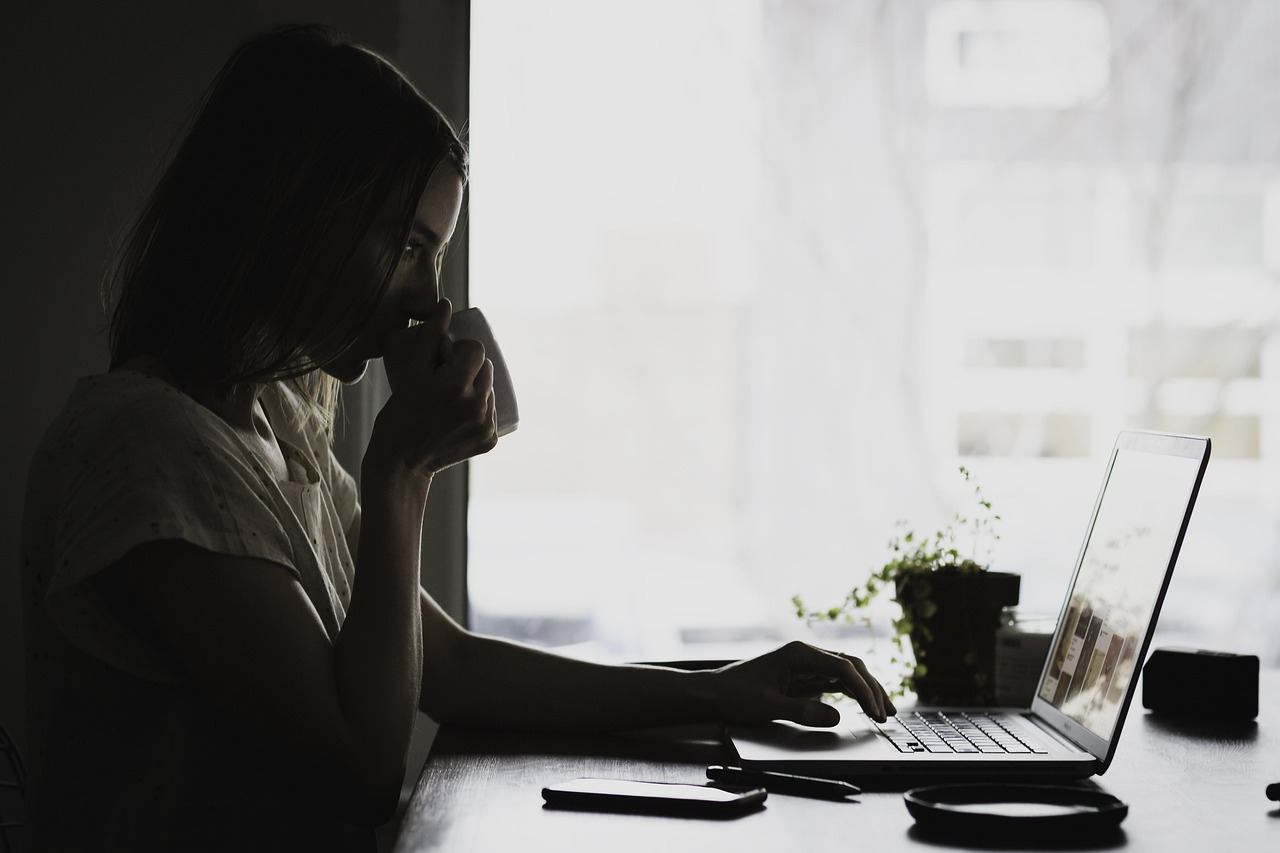
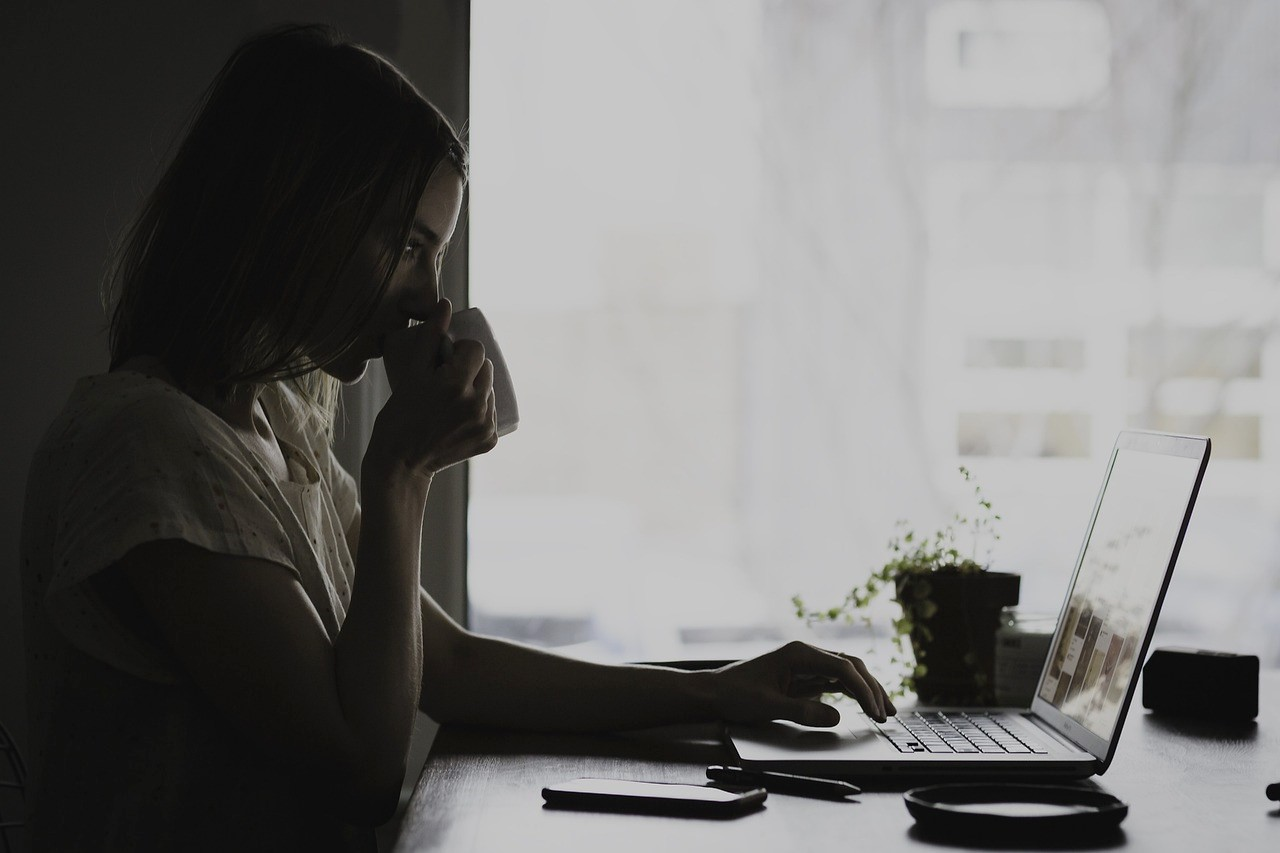
darken images

diff --git a/dist/chapters/literature-review/index.html b/dist/chapters/literature-review/index.html
@@ -139,7 +139,7 @@ header h1 {
 <p>To Review has been defined as: “To View, inspect, or examine a second time or again”.</p>
 <p>It is a crucial stage in the research process to establish what is already known about the topic so that unintentional replication can be avoided.</p>
 </div>
-<h2 id="why-do-we-need-to-write-a-literature-review%3F" tabindex="-1">Why do we need to write a literature review?</h2>
+<h2>Why do we need to write a literature review?</h2>
 <p>There are several reasons to write a literature review, depending on your research plans. Some reasons include:</p>
 <ul>
 <li>To find out what's already known about your topic. It helps readers understand the background of your study.</li>
@@ -151,7 +151,7 @@ header h1 {
 <li>Literature reviews help you create a theoretical framework for your research, giving it a conceptual foundation.</li>
 <li>To avoid doing research that's already been done. This way, you build on existing knowledge instead of repeating it.</li>
 </ul>
-<h2 id="type-of-literature-review" tabindex="-1">Type of Literature Review</h2>
+<h2>Type of Literature Review</h2>
 <p>There are various types of literature reviews and these include:</p>
 <ul>
 <li><a href="#literature-reviews-or-narrative-reviews">Literature review</a></li>
@@ -163,32 +163,57 @@ header h1 {
 <li><a href="#realist-review">realist review</a></li>
 <li><a href="#review-of-reviews">Review of reviews</a></li>
 </ul>
-<h3 id="literature-reviews-or-narrative-reviews" tabindex="-1">Literature reviews or narrative reviews</h3>
+<h3>Literature reviews or narrative reviews</h3>
 <p>Literature, or narrative, reviews provide an overview of what is known about a particular topic. They evaluate the material, rather than simply restating it, but the methods used to do this are not usually prespecified and they are not described in detail in the review. The search might be comprehensive but it does not aim to be exhaustive. Literature reviews are often topic-based  and can take the form of a discussion. Literature reviews lack precision and replicability and can  present their findings in the context of what has come before. Often, this sort of synthesis does not attempt to control for the author’s own bias. The results or conclusions of a literature review are likely to be presented in a narrative format rather than statistical methods.</p>
-<h3 id="critical-review" tabindex="-1">Critical review</h3>
+<h3>Critical review</h3>
 <p>A critical review (sometimes called a critique, critical commentary, critical appraisal, critical analysis) is a detailed commentary on and critical evaluation of a text.  The aim of the critical review is to demonstrate that the reviewer has a commanding understanding of the literature to the point where they can extrapolate hypotheses on the topic of review. This type of review goes beyond the level of detailed description of the existing literature.</p>
 <p>While conducting a critical review, the reviewer identifies the most significant research in the field and evaluates the literature based on its contribution to the field (as opposed to a formal quality assessment). This review type is usually narrative or conceptual.</p>
-<h3 id="scoping-review" tabindex="-1">Scoping review</h3>
+<h3>Scoping review</h3>
 <p>Scoping reviews are exploratory and typically address a broad question, compared to a systematic review that typically has a more targeted question.
 Researchers conduct scoping reviews to assess the extent of the available evidence, to organize it into groups and to highlight gaps. If a scoping review finds no studies, this might help researchers to decide that a systematic review is likely to be of limited value and that resources could be better directed elsewhere.</p>
-<h3 id="rapid-review" tabindex="-1">Rapid Review</h3>
+<h3>Rapid Review</h3>
 <p>Rapid reviews aim to produce a rigorous synthesis quickly (due to time constraints/urgency), based on a pre-defined research question. The review process for rapid reviews is the same as for a more traditional systematic review: the emphasis is on a replicable pre-specified search, and screening methods that minimize the risk of bias, although potentially isn’t as stringent as a formal systematic review.
 The process operates within pre-specified limits (for example, by restricting searches to articles published during a specific timeframe) and is usually run by a multidisciplinary team with expertise in systematic review methods.</p>
-<h3 id="systematic-review" tabindex="-1">Systematic review</h3>
+<h3>Systematic review</h3>
 <p>Systematic review attempts to collate all empirical evidence that fit pre-specified eligibility criteria in order to answer a specific clearly formulated research question.  It uses explicit and reproducible systematic methods that are selected with a view to minimising bias, thus providing more reliable findings from which conclusions can be drawn and decisions made.</p>
 <p>The process starts with a research question and a protocol or research plan. A review team searches for studies to answer the question using a highly sensitive search strategy. The retrieved studies are then screened for eligibility using pre-specified inclusion and exclusion criteria (this is done by at least two people working independently). Next, the reviewers extract the relevant data and assess the quality of the included studies. Finally, the review team synthesises the extracted study data and presents the results.</p>
 <p>A systematic review may contain meta-analyses (statistical analysis). A systematic review  which is continually updated, incorporating relevant new evidence as it becomes available is often known as a living systematic review.</p>
-<h3 id="meta-analysis" tabindex="-1">Meta-analysis</h3>
+<h3>Meta-analysis</h3>
 <p>A meta-analysis is a systematic approach to combining the results of multiple studies. It is a statistical technique used to combine the results from multiple different studies in order to assess a single overall effect. Meta-analyses can be used to analyse data from randomized controlled trials, observational studies, or both. Meta-analyses are often used to assess the effectiveness of a certain treatment or intervention and can help provide better clarity on the effects of a particular intervention than individual studies alone.</p>
-<h3 id="meta-ethnography" tabindex="-1">Meta-ethnography</h3>
+<h3>Meta-ethnography</h3>
 <p>Meta-ethnography is a qualitative research methodology that is used to synthesize multiple qualitative studies. This methodology involves meta-analysis of qualitative data from multiple sources in order to compare, contrast, and integrate the data from the different sources. A meta-ethnography is typically used to look for patterns, relationships, and themes that span the different studies. It can also be used to identify gaps in the research, to highlight areas for further research, and to develop new theories.</p>
-<h3 id="realist-review" tabindex="-1">Realist review</h3>
+<h3>Realist review</h3>
 <p>A realist review is an approach to the synthesis of qualitative and quantitative evidence. It is a type of review that focuses on understanding underlying mechanisms and processes that may explain why an intervention or policy works in certain contexts. The review helps to identify and explain the factors that are responsible for a particular outcome, as well as how different interventions might work in different contexts. Realist reviews can be used to identify strategies that have been successful in similar contexts in order to inform future interventions.</p>
-<h3 id="review-of-reviews" tabindex="-1">Review of reviews</h3>
+<h3>Review of reviews</h3>
 <p>A review of reviews is a systematic method of systematically summarizing the findings of existing reviews and synthesizing them into a single report. It is a form of evidence synthesis that can help to identify gaps in evidence, identify trends in the literature, and identify areas for further research. The review of reviews allows for a more comprehensive assessment of the existing evidence and can be used to inform future research.</p>
-<h3 id="umbrella-reviews-or-overview-of-reviews" tabindex="-1">Umbrella Reviews or Overview of Reviews</h3>
+<h3>Umbrella Reviews or Overview of Reviews</h3>
 <p>An umbrella review is a review of multiple systematic reviews. The process uses explicit and systematic methods to search for, and identify, systematic reviews on related research questions in the same topic area. The purpose of an umbrella review is to synthesize the results of the systematic reviews across important outcomes.</p>
-
+<table class="w3-table-all">
+<thead>
+  <tr class="w3-light-grey">
+    <th>Label</th>
+    <th>Description</th>
+    <th>Search</th>
+    <th>Appraisal</th>
+    <th>Synthesis</th>
+    <th>Analysis</th>
+  </tr>
+</thead>
+<tr>
+  <td>Critical review</td>
+  <td>Aims to demonstrate writer has extensively researched literature and critically evaluated its quality. Goes beyond mere description to include degree of analysis and conceptual innovation. Typically results in hypothesis or mode</td>
+  <td>Seeks to identify most significant items in the field</td>
+  <td>
+No formal quality assessment. Attempts to evaluate according to contribution
+</td>
+  <td>
+Typically narrative, perhaps conceptual or chronological
+</td>
+  <td>
+Significant component: seeks to identify conceptual contribution to embody existing or derive new theory
+</td>
+</tr>
+</table>
   </article>
 
 

diff --git a/dist/chapters/an-introduction-to-research/index.html b/dist/chapters/an-introduction-to-research/index.html
@@ -106,7 +106,7 @@ body,h1,h2,h3,h4,h5,h6 {font-family: "Raleway", sans-serif}
   
 <style>
 .bg {
-  background: url(/images/man-2562325_1280.jpg) no-repeat center center/cover;
+  background: url(/images/laptop-2562210_1280.jpg) no-repeat center center/cover;
   background-color: #474747';
   background-blend-mode: hard-light;
   height: 20rem;
@@ -138,7 +138,7 @@ header h1 {
 <p>Research is a carefully planned and systematic process. It's like exploring uncharted territory to discover new things and find better ways of doing things. In simple terms, research helps us figure out complex issues and come up with practical solutions. The goal is to create knowledge that can be used to improve how things are done, especially in healthcare.</p>
 <p>Research is a bit like detective work. It's about investigating problems, looking for clues, and finding answers. When healthcare professionals, like nurses and midwives, do research, they're trying to make sure they're doing the best job they can for their patients. Imagine it's like having a treasure map that guides you to provide the best care possible.</p>
 <p>In this chapter, we'll dive into the world of research. We'll explore why research is important, how it helps us make healthcare better, and what the research process looks like. By the end of this chapter, you'll have a clearer picture of what research is all about, and you'll be ready to journey further into the world of healthcare research.</p>
-<h2 id="why-should-we-be-involved-in-research%3F" tabindex="-1">Why should we be involved in Research?</h2>
+<h2>Why should we be involved in Research?</h2>
 <p>Nurses, midwives, and other healthcare professionals are responsible for giving high-quality care to their patients. Research helps us do just that. It's like having a toolbox full of tools that make our job easier and better.</p>
 <p>Here's why being involved in research is so important:</p>
 <ul>
@@ -161,7 +161,7 @@ header h1 {
 <p><strong>Knowledge and Skills:</strong> Research helps us grow and learn. It's like having a library of books that we can keep adding to.</p>
 </li>
 </ul>
-<h2 id="the-research-process" tabindex="-1">The Research process</h2>
+<h2>The Research process</h2>
 <p>Think of the research process as a roadmap. It's like having a step-by-step guide to help us navigate through the research journey. In reality, it's not always a straight line; sometimes, we go in circles or take detours. But having a roadmap helps us stay on track.
 <img src="/assets/img/research-process.jpg" alt="The Research Process"></p>
 <p>This website is designed to be your trusty guide on this research journey. It's meant for healthcare professionals working in different settings, and it covers a wide range of topics, from asking research questions to finding answers.</p>

diff --git a/src/chapters/literature-review.md b/src/chapters/literature-review.md
@@ -99,3 +99,34 @@ A review of reviews is a systematic method of systematically summarizing the fin
 ### Umbrella Reviews or Overview of Reviews
 
 An umbrella review is a review of multiple systematic reviews. The process uses explicit and systematic methods to search for, and identify, systematic reviews on related research questions in the same topic area. The purpose of an umbrella review is to synthesize the results of the systematic reviews across important outcomes. 
+
+<table class="w3-table-all">
+<thead>
+  <tr class="w3-light-grey">
+    <th>Label</th>
+    <th>Description</th>
+    <th>Search</th>
+    <th>Appraisal</th>
+    <th>Synthesis</th>
+    <th>Analysis</th>
+  </tr>
+</thead>
+
+<tr>
+  <td>Critical review</td>
+  <td>Aims to demonstrate writer has extensively researched literature and critically evaluated its quality. Goes beyond mere description to include degree of analysis and conceptual innovation. Typically results in hypothesis or mode</td>
+  <td>Seeks to identify most significant items in the field</td>
+  <td>
+No formal quality assessment. Attempts to evaluate according to contribution
+
+</td>
+  <td>
+Typically narrative, perhaps conceptual or chronological
+
+</td>
+  <td>
+Significant component: seeks to identify conceptual contribution to embody existing or derive new theory
+
+</td>
+</tr>
+</table>

diff --git a/src/chapters/an-introduction-to-research.md b/src/chapters/an-introduction-to-research.md
@@ -2,7 +2,7 @@
 title: An Introduction to Research
 layout: layouts/home.html
 displayOrder: 1
-mainImage: '/images/man-2562325_1280.jpg'
+mainImage: '/images/laptop-2562210_1280.jpg'
 teaser:
   slug: Research is systematic exploration of issues to understand complexities
     and find practical solutions.
